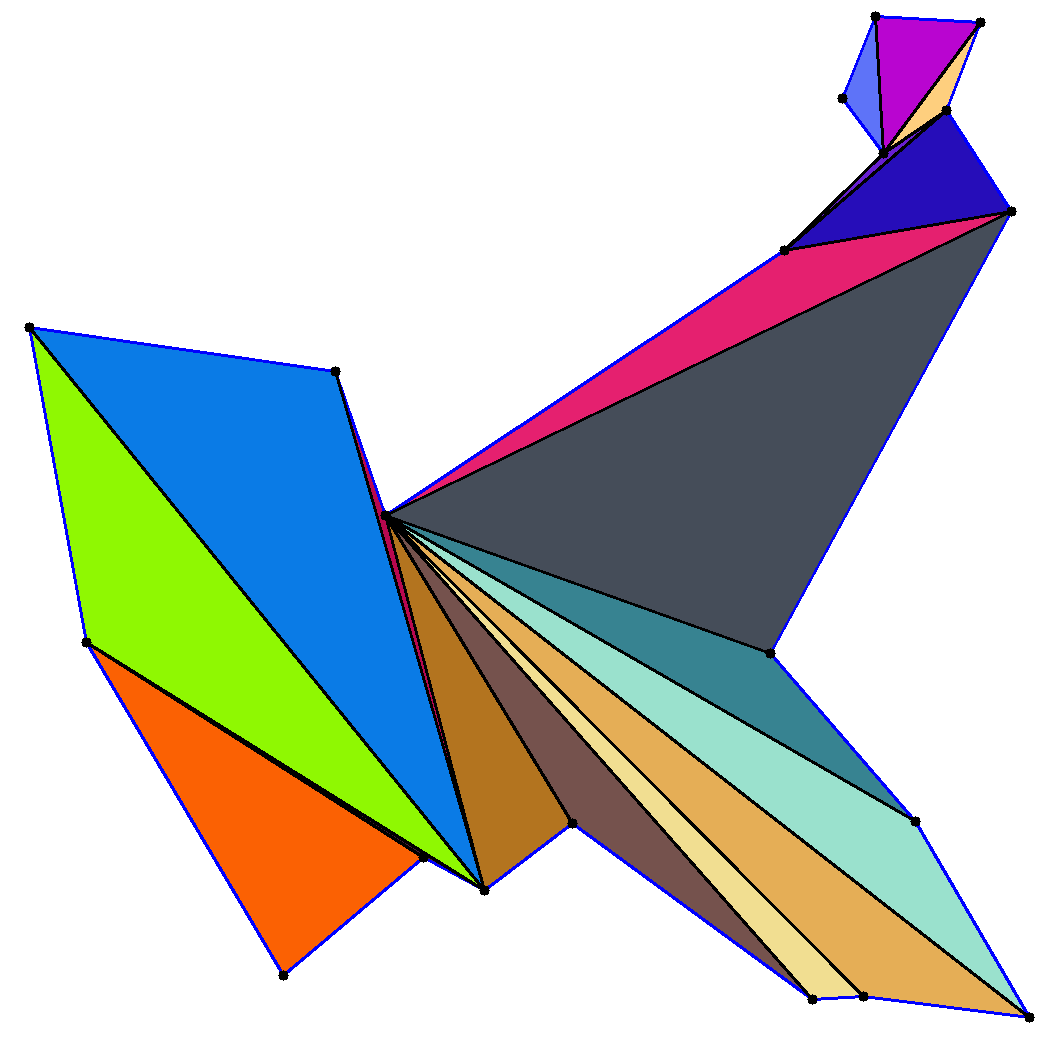
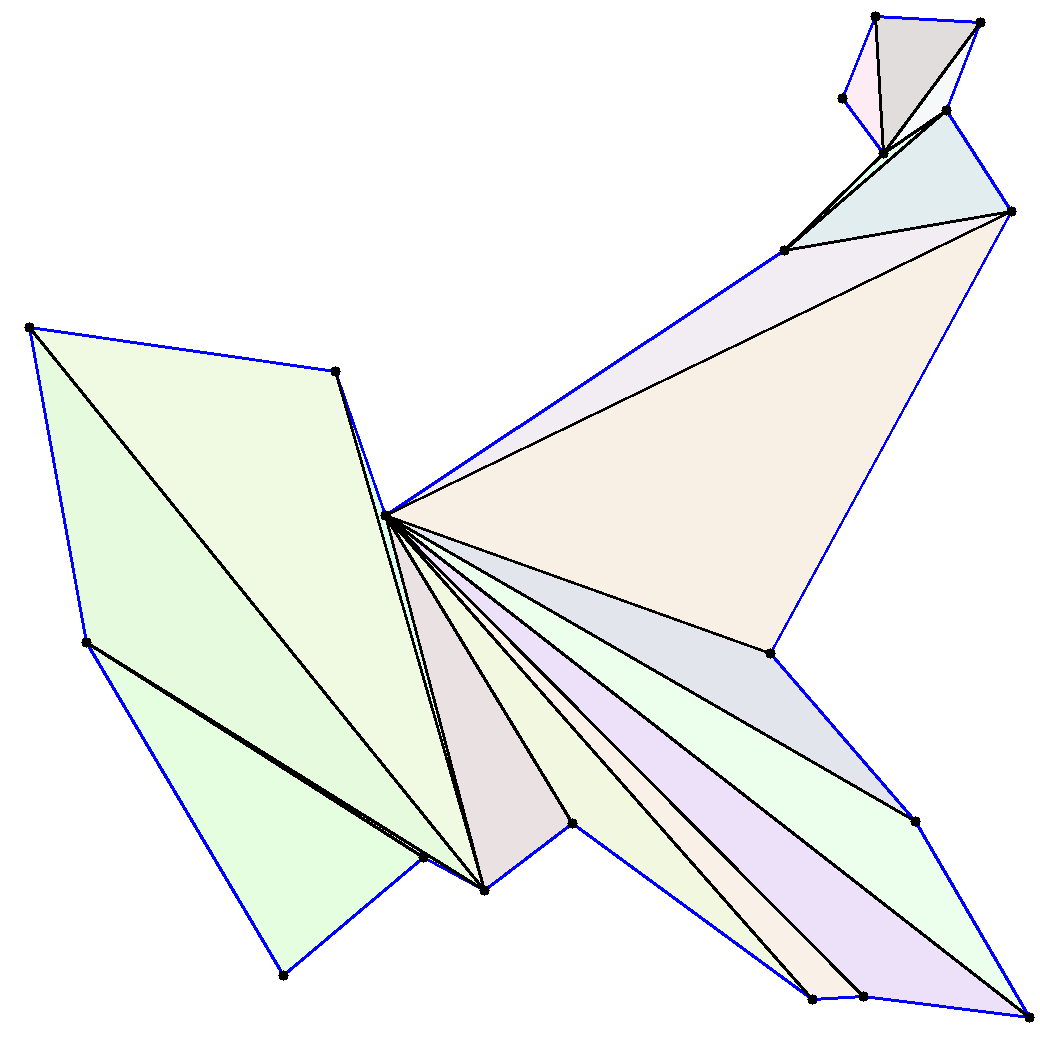
change color

diff --git a/data.cpp b/data.cpp
@@ -501,13 +501,13 @@ void Data::DrawResult(){
 	cv::Mat img(height, width, CV_8UC3, cv::Scalar(255,255,255));
 	std::random_device rd;
 	std::mt19937 gen(rd());
-	std::uniform_int_distribution<int> dis(0, 255);
+	std::uniform_int_distribution<int> dis(220, 255);
 	for (Triangle* t : inst->triangles) {
-		cv::Point rook_points[1][3]; 
-		rook_points[0][0] = cv::Point(minw+(int)inst->pts[t->p[0]].x.toDouble()*rad, minh-(int)inst->pts[t->p[0]].y.toDouble()*rad); 
-		rook_points[0][1] = cv::Point(minw+(int)inst->pts[t->p[1]].x.toDouble()*rad, minh-(int)inst->pts[t->p[1]].y.toDouble()*rad); 
-		rook_points[0][2] = cv::Point(minw+(int)inst->pts[t->p[2]].x.toDouble()*rad, minh-(int)inst->pts[t->p[2]].y.toDouble()*rad); 
-		const cv::Point* ppt[1] = { rook_points[0] };
+		cv::Point triangle_pt[1][3]; 
+		triangle_pt[0][0] = cv::Point(minw+(int)inst->pts[t->p[0]].x.toDouble()*rad, minh-(int)inst->pts[t->p[0]].y.toDouble()*rad); 
+		triangle_pt[0][1] = cv::Point(minw+(int)inst->pts[t->p[1]].x.toDouble()*rad, minh-(int)inst->pts[t->p[1]].y.toDouble()*rad); 
+		triangle_pt[0][2] = cv::Point(minw+(int)inst->pts[t->p[2]].x.toDouble()*rad, minh-(int)inst->pts[t->p[2]].y.toDouble()*rad); 
+		const cv::Point* ppt[1] = { triangle_pt[0] };
 		int npt[] = { 3 };
 		
 		fillPoly(img, ppt, npt, 1, cv::Scalar(dis(gen), dis(gen), dis(gen)), 8);
